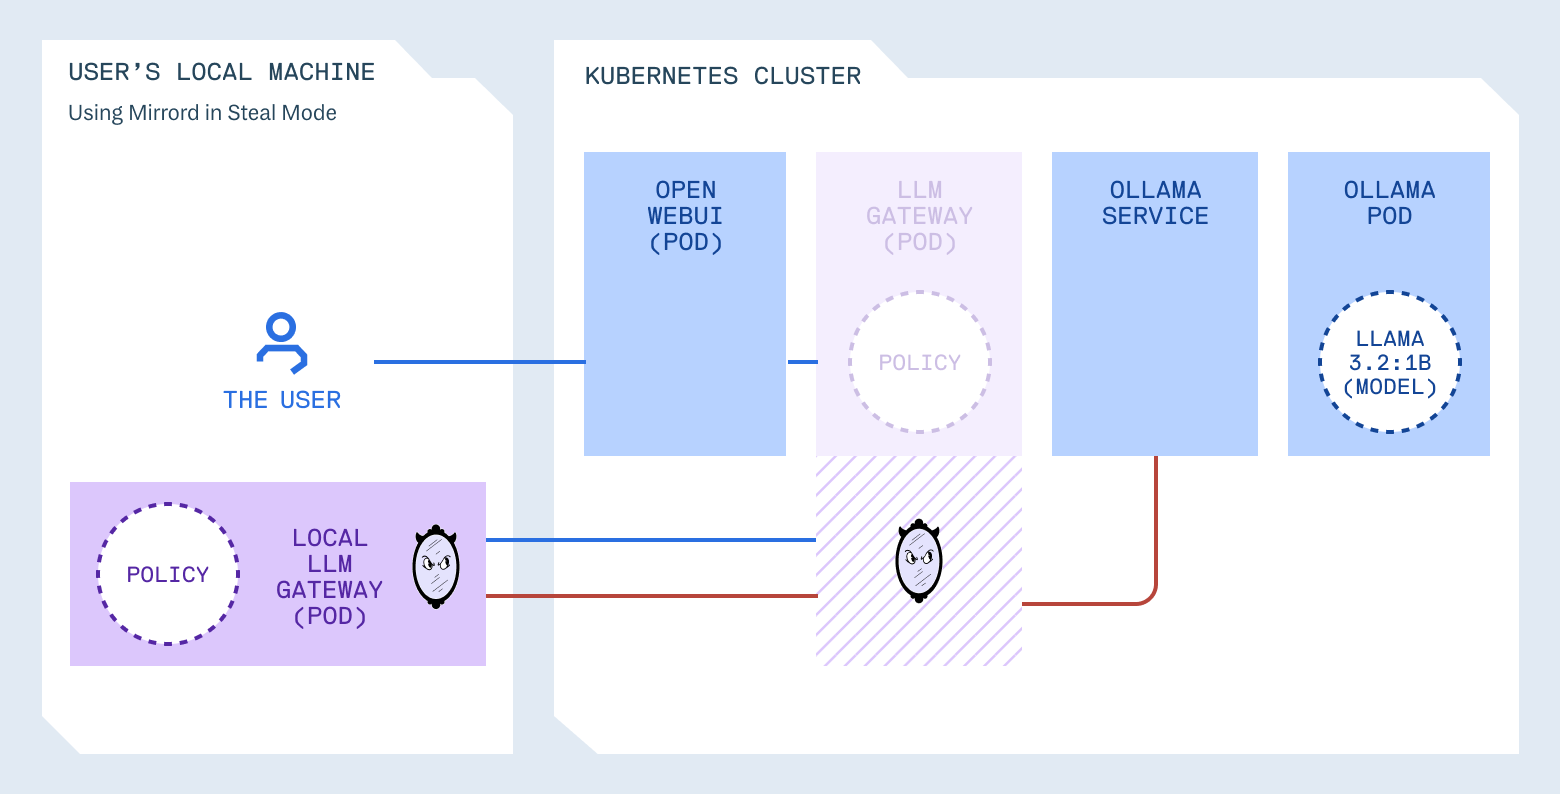
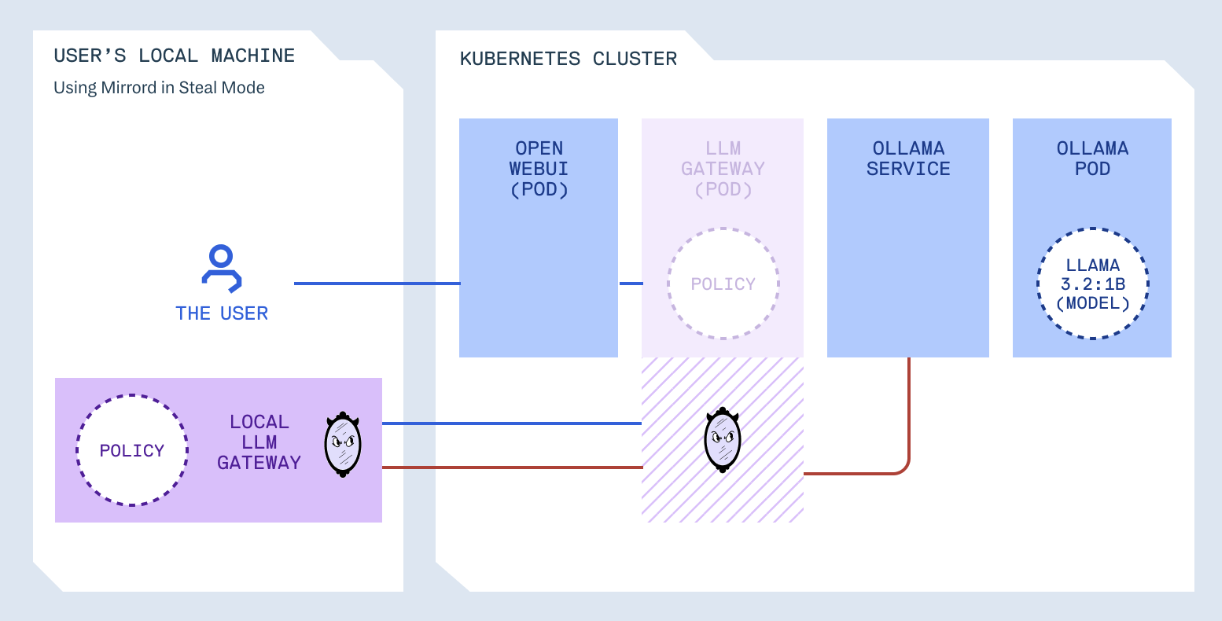
Add Jake Page as contributor and update blog post image

diff --git a/content/en/contributors/jake-page/_index.md b/content/en/contributors/jake-page/_index.md
@@ -1,0 +1,11 @@
+---
+title: "Jake Page"
+description: "DevRel @ MetalBear"
+draft: false
+images: ["profile.png"]
+twitter: "https://x.com/jakepage91"
+linkedin: "https://www.linkedin.com/in/jake-page-aws/"
+cover: profile.png
+---
+
+DevRel Engineer @ MetalBear
